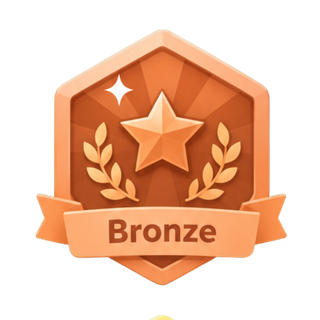
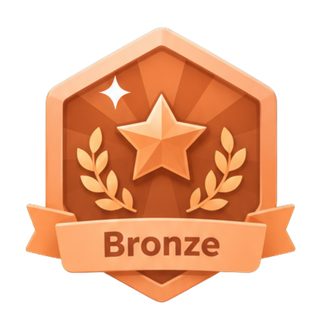
Replace rank badges with corrected user artwork and refresh asset versions

diff --git a/app.js b/app.js
@@ -50,7 +50,7 @@ function otherAvatar(i){return{skin:i%6,hair:i%4,hairColor:i%5,shirt:(i+2)%5,gla
 function percentile(sorted,p){const k=(sorted.length-1)*p;return sorted[Math.floor(k)]+(sorted[Math.ceil(k)]-sorted[Math.floor(k)])*(k%1)}
 function getData(course=state.course){const c=courses[course];const rows=Array.from({length:c.size},(_,i)=>({id:i,name:i===c.player?state.nickname:nicknames[(i+c.seed*4)%nicknames.length],score:+(40.8+c.seed*1.5-i*.58-(i%3)*.13).toFixed(2),isYou:i===c.player,av:i===c.player?state.avatar:otherAvatar(i+c.seed)}));const ascending=rows.map(r=>r.score).sort((a,b)=>a-b);const cuts=[.2,.4,.6,.8].map(p=>percentile(ascending,p));rows.forEach((r,i)=>{r.position=i+1;r.rank=i<5?'Supreme':rankNames[cuts.filter(n=>r.score>n).length]});const you=rows.find(r=>r.isYou);const nextRank=rankNames[rankNames.indexOf(you.rank)+1];const nextScore=nextRank==='Supreme'?rows[4].score:nextRank?cuts[rankNames.indexOf(you.rank)]+.01:you.score;return{c,rows,you,cuts,nextRank,nextScore,difference:Math.max(0,nextScore-you.score)}}
 const rankStyle=r=>`--rank-bg:${palette[r][0]};--rank-fg:${palette[r][1]}`;
-function rankImage(rank,cls=''){return '<img class="rank-image '+cls+'" src="assets/badges/'+rank.toLowerCase()+'.png" alt="'+rank+'" width="320" height="320" decoding="async">'}
+function rankImage(rank,cls=''){return '<img class="rank-image '+cls+'" src="assets/badges/'+rank.toLowerCase()+'.png?v=20261102-badges2" alt="'+rank+'" width="320" height="320" decoding="async">'}
 const rankPill=r=>`<span class="rank-pill" style="${rankStyle(r)}">${rankImage(r)}<span>${r}</span></span>`;
 function logo(){return `<div class="logo"><span class="logo-mark">${icon('up')}</span><span class="logo-name">classup<span style="color:var(--purple)">.</span></span></div>`}
 const demoTag=()=>'<span class="pill demo-tag"><span class="tag-dot"></span>โหมดทดลอง</span>';

diff --git a/index.html b/index.html
@@ -6,11 +6,11 @@
   <title>ClassUp · เติบโตในแบบของคุณ</title>
   <link rel="preconnect" href="https://fonts.googleapis.com"><link rel="preconnect" href="https://fonts.gstatic.com" crossorigin>
   <link href="https://fonts.googleapis.com/css2?family=Noto+Sans+Thai:wght@400;500;600;700;800&family=Outfit:wght@400;500;600;700;800&display=swap" rel="stylesheet">
-  <link rel="stylesheet" href="style.css?v=20261102-wardrobe">
+  <link rel="stylesheet" href="style.css?v=20261102-badges2">
 </head>
 <body>
  <div id="app"></div>
  <div id="toast" role="status" aria-live="polite"></div>
  <dialog id="infoDialog"><button class="icon-button close-dialog" aria-label="ปิดหน้าต่าง">×</button><div id="dialogBody"></div></dialog>
- <script src="app.js?v=20261102-wardrobe"></script>
+ <script src="app.js?v=20261102-badges2"></script>
 </body></html>
